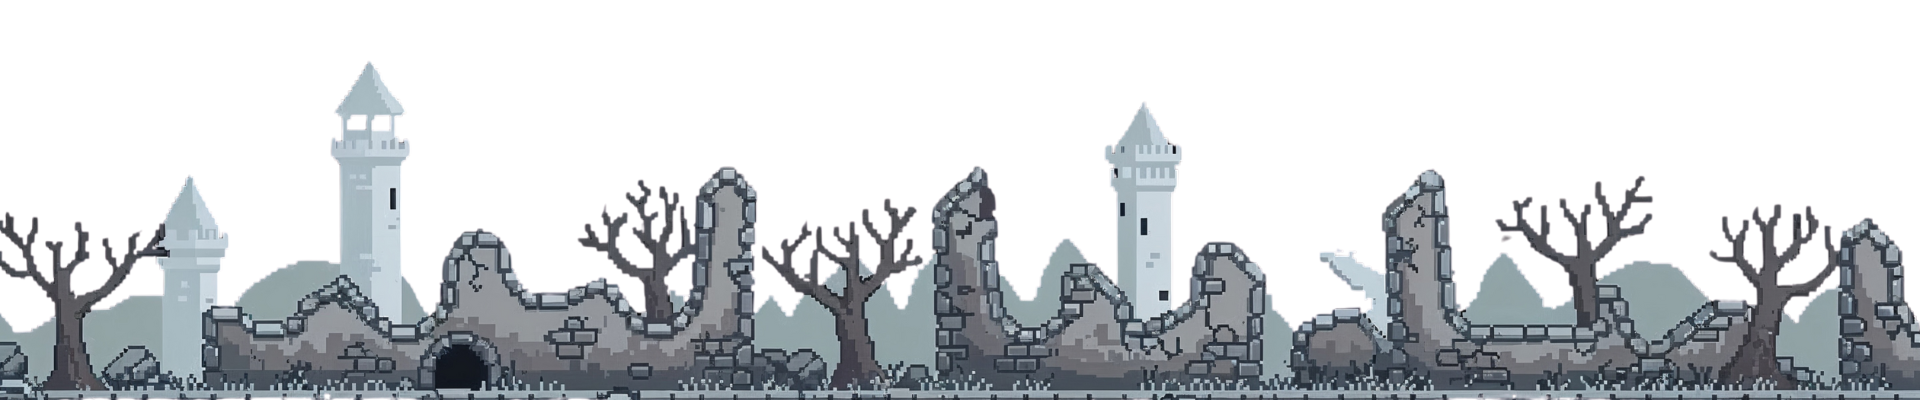
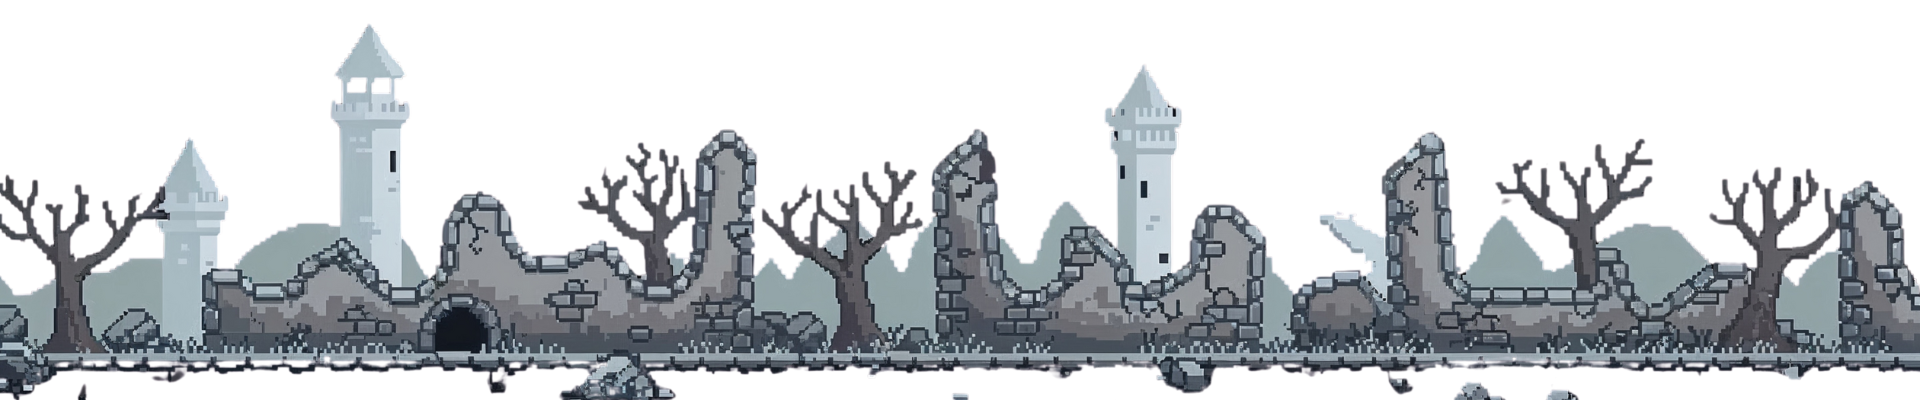
edit ground tiles

diff --git a/app/craftshore/components/CraftshorePhaserGame.tsx b/app/craftshore/components/CraftshorePhaserGame.tsx
@@ -55,10 +55,10 @@ export default function CraftshorePhaserGame(
 
         private buildingPositions: { type: string; x: number }[] = [];
 
-        // Background layers (parallax)
-        private bgSky?: Phaser.GameObjects.TileSprite;
-        private bgMountains?: Phaser.GameObjects.TileSprite;
-        private bgTreeline?: Phaser.GameObjects.TileSprite;
+        // Background layers (non-tiling images)
+        private bgSky?: Phaser.GameObjects.Image;
+        private bgMountains?: Phaser.GameObjects.Image;
+        private bgTreeline?: Phaser.GameObjects.Image;
 
         constructor() {
           super("CraftshoreScene");
@@ -86,39 +86,47 @@ export default function CraftshorePhaserGame(
           );
         }
 
+        private resizeBackgrounds(width: number, height: number) {
+          if (this.bgSky) this.bgSky.setDisplaySize(width, height);
+          if (this.bgMountains) this.bgMountains.setDisplaySize(width, height);
+          if (this.bgTreeline) this.bgTreeline.setDisplaySize(width, height);
+        }
+
         create() {
           const W = this.scale.width;
           const H = this.scale.height;
 
-          // --- PARALLAX BACKGROUND ---
+          // --- NON-TILING PARALLAX BACKGROUND ---
+          // These are just big images scaled to the viewport. Parallax is
+          // handled by scrollFactor; there is NO tileSprite, so no vertical
+          // repeating.
 
-          // Sky stays fixed
           this.bgSky = this.add
-            .tileSprite(0, 0, W, H, "bg_sky")
+            .image(0, 0, "bg_sky")
             .setOrigin(0, 0)
             .setScrollFactor(0)
             .setDepth(-20);
 
-          // Distant mountains (slow parallax)
           this.bgMountains = this.add
-            .tileSprite(0, 0, W, H, "bg_mountains")
+            .image(0, 0, "bg_mountains")
             .setOrigin(0, 0)
-            .setScrollFactor(0.2)
+            .setScrollFactor(0.25) // slow parallax
             .setDepth(-19);
 
-          // Treeline (faster parallax)
           this.bgTreeline = this.add
-            .tileSprite(0, 0, W, H, "bg_treeline")
+            .image(0, 0, "bg_treeline")
             .setOrigin(0, 0)
-            .setScrollFactor(0.4)
+            .setScrollFactor(0.5) // a bit faster
             .setDepth(-18);
+
+          this.resizeBackgrounds(W, H);
 
           // World bounds & camera
           this.cameras.main.setBackgroundColor(0x020617); // slate-950
           this.cameras.main.setBounds(0, 0, worldWidth, WORLD_HEIGHT);
           this.physics.world.setBounds(0, 0, worldWidth, WORLD_HEIGHT);
 
-          // Simple invisible physics ground line. Player collides with THIS,
+          // Invisible physics ground line. Player collides with THIS,
           // not the decorative tiles.
           const groundLine = this.add.rectangle(
             worldWidth / 2,
@@ -133,8 +141,8 @@ export default function CraftshorePhaserGame(
           this.physics.add.existing(groundLine, true);
 
           // --- GROUND TILES (art only) ---
-          // We place the *top* of each tile at props.groundY so the player’s
-          // feet are visually on the grass and dirt is mostly below.
+          // Top of each tile sits exactly on groundY so the player stands
+          // on the grass and most of the dirt is below.
           const groundTileKeys = [
             "tile_ground1",
             "tile_ground2",
@@ -145,7 +153,7 @@ export default function CraftshorePhaserGame(
             const key = Phaser.Utils.Array.GetRandom(groundTileKeys);
             this.add
               .image(x * props.tileSize, props.groundY, key)
-              .setOrigin(0, 0) // top aligned with ground line
+              .setOrigin(0, 0) // top-left aligned with ground line
               .setDepth(5);
           }
 
@@ -262,30 +270,18 @@ export default function CraftshorePhaserGame(
             .setScrollFactor(0, 0)
             .setDepth(20);
 
-          // Make backgrounds resize with the canvas
+          // Resize backgrounds when the canvas size changes
           this.scale.on(
             "resize",
             (size: Phaser.Structs.Size) => {
               const { width, height } = size;
-              if (this.bgSky) this.bgSky.setSize(width, height);
-              if (this.bgMountains) this.bgMountains.setSize(width, height);
-              if (this.bgTreeline) this.bgTreeline.setSize(width, height);
+              this.resizeBackgrounds(width, height);
             },
             this
           );
         }
 
         update() {
-          const cam = this.cameras.main;
-
-          // Parallax scrolling for background layers
-          if (this.bgMountains) {
-            this.bgMountains.tilePositionX = cam.scrollX * 0.2;
-          }
-          if (this.bgTreeline) {
-            this.bgTreeline.tilePositionX = cam.scrollX * 0.4;
-          }
-
           if (!this.player) return;
 
           const body = this.player.body;
